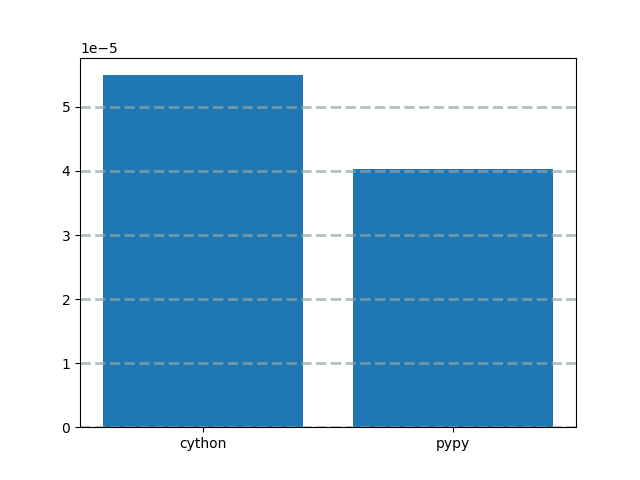
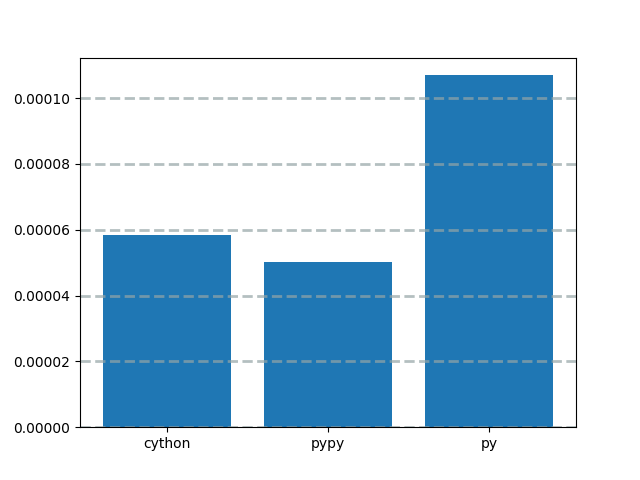
added test in list and fixt graphs

diff --git a/perf/pypy_tests.py b/perf/pypy_tests.py
@@ -11,7 +11,7 @@ TEST_RANGE = config.CONFIG["test range"]
 
 def run():
     data = log.read_file()
-    tests = [factorial_test(), matrix_multi_test(), adding_numbers_test(), integral_test()]
+    tests = [factorial_test(), matrix_multi_test(), integral_test(), list_search_test()]
     for tst in tests:
         if tst.name in data.keys():
             data[tst.name]["pypy"] = tst.avg
@@ -47,7 +47,7 @@ def matrix_multi_test():
 
 def adding_numbers_test():
     results = []
-    for _ in tqdm(range(10)):
+    for _ in tqdm(range(1000)):
         with Timer() as t:
             pypy.adding_numbers(10000)
         results.append(t.secs)
@@ -78,11 +78,22 @@ def dict_remove_test():
 
 def integral_test():
     results = []
-    for _ in tqdm(range(10)):
+    for _ in tqdm(range(1000)):
         with Timer() as t:
-            pypy.integrate_f(0.0, 10000, TEST_RANGE)
+            pypy.integrate_f(0.0, 10000.0, TEST_RANGE)
         results.append(t.secs)
     return util.singelResult("integral", results)
+
+
+def list_search_test():
+    results = []
+    seq = list(range(2, TEST_RANGE*100))
+    seq.append(1)
+    for _ in tqdm(range(1000)):
+        with Timer() as t:
+            pypy.is_in_seq(seq, 1)
+        results.append(t.secs)
+    return util.singelResult("in list", results)
 
 
 if __name__ == '__main__':

diff --git a/perf/cy_test.py b/perf/cy_test.py
@@ -11,7 +11,7 @@ TEST_RANGE = config.CONFIG["test range"]
 
 def run():
     data = log.read_file()
-    tests = [factorial_test(), matrix_multi_test(), adding_numbers_test(), integral_test()]
+    tests = [factorial_test(), matrix_multi_test(), integral_test(), list_search_test()]
     for tst in tests:
         if tst.name in data.keys():
             data[tst.name]["cython"] = tst.avg
@@ -48,7 +48,7 @@ def matrix_multi_test():
 
 def adding_numbers_test():
     results = []
-    for _ in tqdm(range(10)):
+    for _ in tqdm(range(1000)):
         with Timer() as t:
             cy.adding_numbers(10000)
         results.append(t.secs)
@@ -63,6 +63,19 @@ def integral_test():
             cy.integrate_f(0.0, 100000, TEST_RANGE)
         results.append(t.secs)
     return util.singelResult("integral", results)
+
+
+
+def list_search_test():
+    results = []
+    seq = list(range(2, TEST_RANGE*100))
+    seq.append(1)
+    for _ in tqdm(range(1000)):
+        with Timer() as t:
+            cy.is_in_seq(seq, 1)
+        results.append(t.secs)
+    return util.singelResult("in list", results)
+
 
 
 

diff --git a/perf/py_tests.py b/perf/py_tests.py
@@ -11,7 +11,7 @@ TEST_RANGE = config.CONFIG["test range"]
 
 def run():
     data = log.read_file()
-    tests = [factorial_test(), matrix_multi_test(), adding_numbers_test(), integral_test()]
+    tests = [factorial_test(), matrix_multi_test(), integral_test(), list_search_test()]
     for tst in tests:
         if tst.name in data.keys():
             data[tst.name]["py"] = tst.avg
@@ -47,7 +47,7 @@ def matrix_multi_test():
 
 def adding_numbers_test():
     results = []
-    for _ in tqdm(range(10)):
+    for _ in tqdm(range(1000)):
         with Timer() as t:
             pypy.adding_numbers(10000)
         results.append(t.secs)
@@ -81,6 +81,17 @@ def integral_test():
         results.append(t.secs)
     return util.singelResult("integral", results)
 
+
+
+def list_search_test():
+    results = []
+    seq = list(range(2, TEST_RANGE*100))
+    seq.append(1)
+    for _ in tqdm(range(1000)):
+        with Timer() as t:
+            pypy.is_in_seq(seq, 1)
+        results.append(t.secs)
+    return util.singelResult("in list", results)
 
 
 

diff --git a/perf/pypy.py b/perf/pypy.py
@@ -6,7 +6,6 @@ def factorial(num):
     else:
         return num*factorial(num-1)
 
-#print(factorial(100))
 
 def matrix_multiply(matrix_size, matrix_a, matrix_b):
     results_matrix = []
@@ -54,3 +53,10 @@ def integrate_f(a, b, N):
     for i in range(N):
         s += f(a + i * dx)
     return s * dx
+
+
+def is_in_seq(seq, val):
+    for val_ in seq:
+        if val_ == val:
+            return True
+    return False 

diff --git a/graph/__main__.py b/graph/__main__.py
@@ -13,6 +13,7 @@ def read_file(file="./results.json"):
 
 data = read_file()
 for tst, res in data.items():
-    plt.bar(np.array(list(res.keys())), np.array(list(res.values())))
+    plt.figure()
     plt.grid(color='#95a5a6', linestyle='--', linewidth=2, axis='y', alpha=0.7)
+    plt.bar(np.array(list(res.keys())), np.array(list(res.values())))
     plt.savefig(f"./graph/img/{tst}.png")

diff --git a/README.md b/README.md
@@ -19,21 +19,23 @@ sh run.sh
 ```json
 {
     "factorial": {
-        "python":[],
-        "cython":[],
-        "pypy":[],
+        "python":0,
+        "cython":0,
+        "pypy":0,
     },
 
     "matrix multiply": {
-        "python":[],
-        "cython":[],
-        "pypy":[],
+        "python":0,
+        "cython":0,
+        "pypy":0,
     },
 
     "adding numbers": {
-        "python":[],
-        "cython":[],
-        "pypy":[],
+        "python":0,
+        "cython":0,
+        "pypy":0,
     },
 }
 ```
+
+The results will be garphs in `graph/img/`
